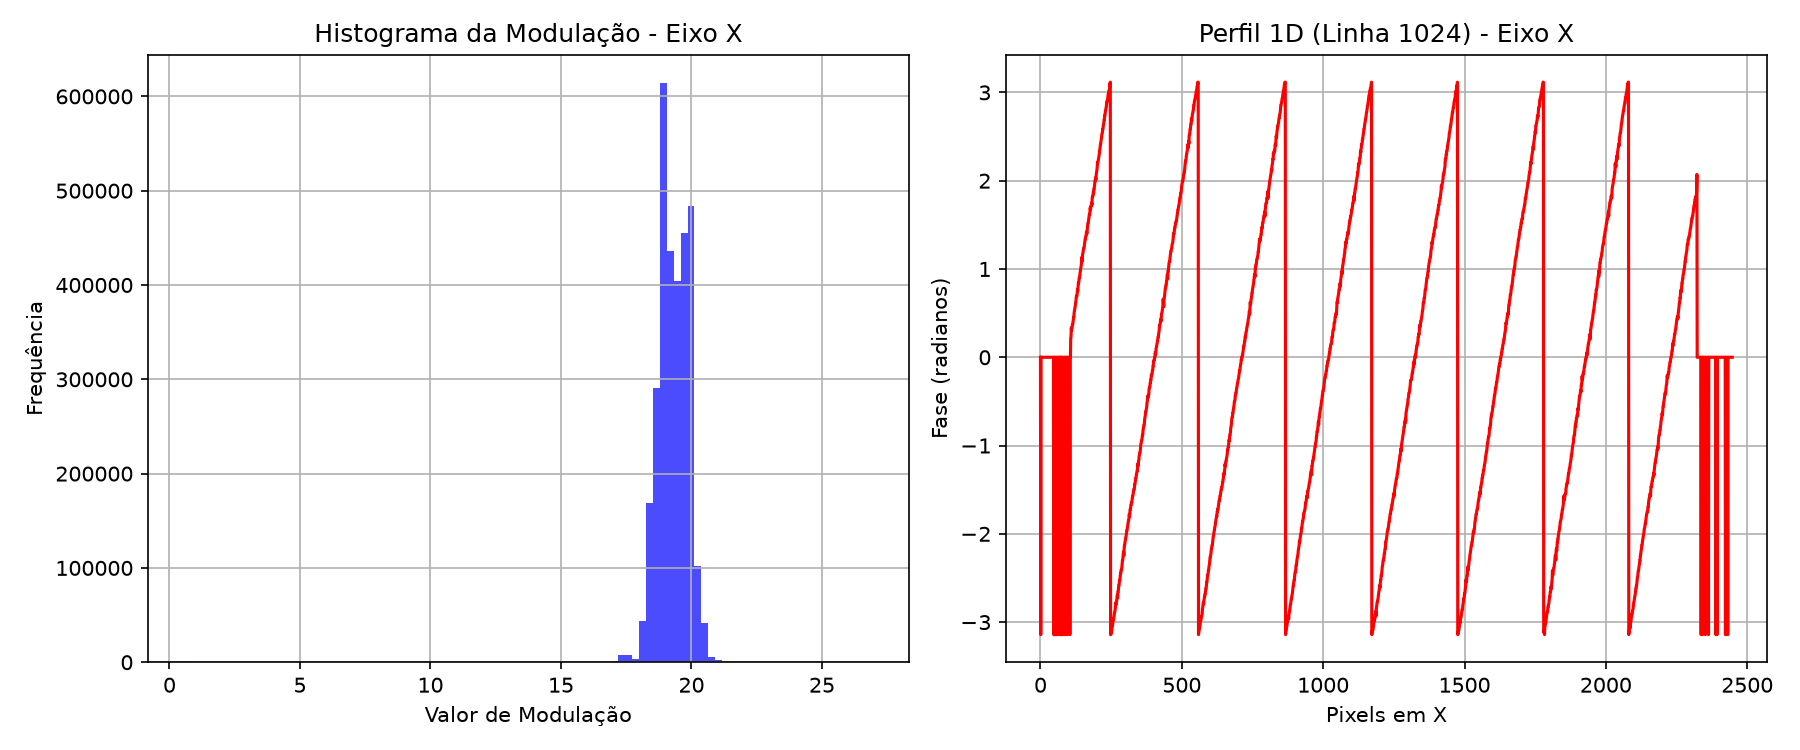
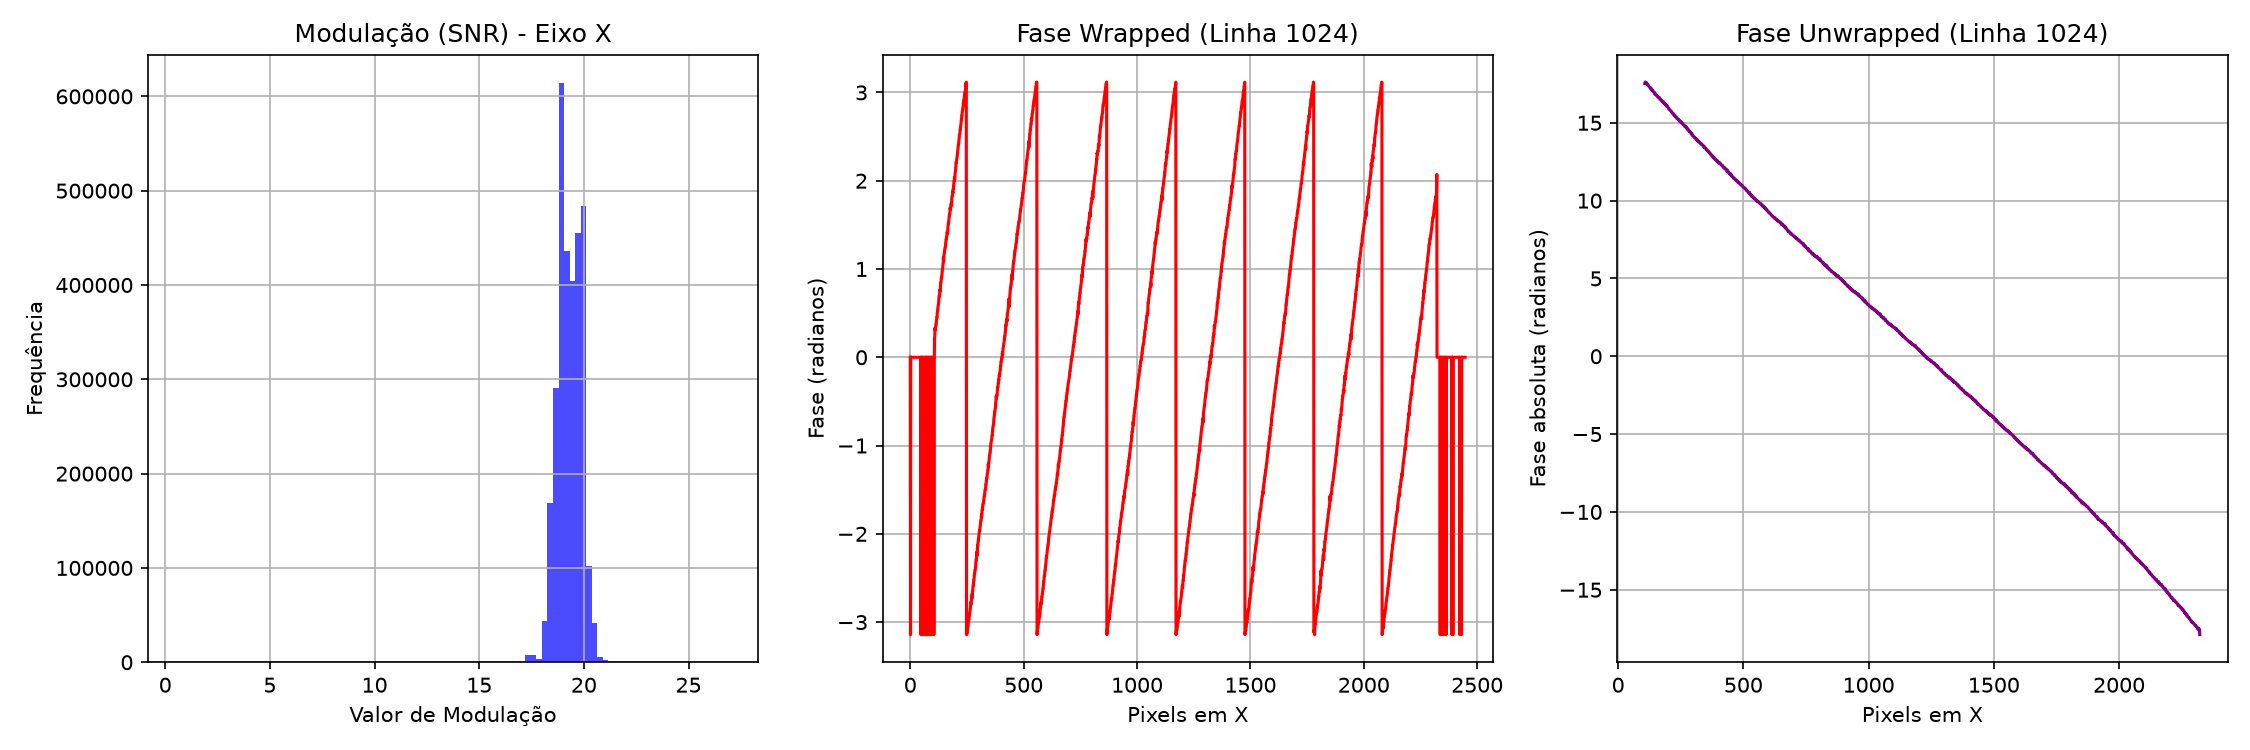
feat: implement 2D spatial phase unwrapping using DCT and update quality evaluation plots

diff --git a/main_phase_extraction.py b/main_phase_extraction.py
@@ -18,7 +18,7 @@ def load_images_from_directory(directory, prefix="cam0"):
     imgs = [cv2.imread(f, cv2.IMREAD_GRAYSCALE) for f in files]
     return imgs
 
-def evaluate_quality(wrapped_phase, modulation, axis_name):
+def evaluate_quality(wrapped_phase, modulation, axis_name, unwrapped_phase=None):
     """
     Gera e salva mapas e gráficos de avaliação de qualidade do resultado.
     """
@@ -26,36 +26,58 @@ def evaluate_quality(wrapped_phase, modulation, axis_name):
     mod_norm = cv2.normalize(modulation, None, 0, 255, cv2.NORM_MINMAX, dtype=cv2.CV_8U)
     cv2.imwrite(f"out/modulation_map_{axis_name}.png", mod_norm)
     
-    plt.figure(figsize=(12, 5))
+    # Se houver fase desembrulhada, gerar uma visualização em PNG também
+    if unwrapped_phase is not None:
+        p_min, p_max = np.nanmin(unwrapped_phase), np.nanmax(unwrapped_phase)
+        if p_max > p_min:
+            unwrapped_norm = ((unwrapped_phase - p_min) / (p_max - p_min) * 255)
+            # Para onde for nan (fundo/ruído mascarado), coloca 0 (preto)
+            unwrapped_norm = np.where(np.isnan(unwrapped_phase), 0, unwrapped_norm).astype(np.uint8)
+            cv2.imwrite(f"out/unwrapped_phase_{axis_name}.png", unwrapped_norm)
+            
+    plt.figure(figsize=(15, 5))
     
     # 1. Histograma da Modulação
-    plt.subplot(1, 2, 1)
-    # Filtra valores para ignorar pixels de fundo absoluto (0 exato)
+    plt.subplot(1, 3, 1)
     mod_values = modulation.ravel()
     plt.hist(mod_values[mod_values > 1e-3], bins=100, color='blue', alpha=0.7)
-    plt.title(f"Histograma da Modulação - Eixo {axis_name}")
+    plt.title(f"Modulação (SNR) - Eixo {axis_name}")
     plt.xlabel("Valor de Modulação")
     plt.ylabel("Frequência")
     plt.grid(True)
     
-    # 2. Perfil 1D da Fase (Dente-de-serra)
-    plt.subplot(1, 2, 2)
+    # 2. Perfil 1D da Fase Embrulhada
+    plt.subplot(1, 3, 2)
     H, W = wrapped_phase.shape
-    
     if axis_name == 'X':
-        # Para eixo X, fase varia horizontalmente. Pegamos uma linha central.
-        profile = wrapped_phase[H // 2, :]
-        plt.plot(profile, color='red', linewidth=1.5)
-        plt.title(f"Perfil 1D (Linha {H//2}) - Eixo {axis_name}")
+        profile_w = wrapped_phase[H // 2, :]
+        plt.plot(profile_w, color='red', linewidth=1.5)
+        plt.title(f"Fase Wrapped (Linha {H//2})")
         plt.xlabel("Pixels em X")
     else:
-        # Para eixo Y, fase varia verticalmente. Pegamos uma coluna central.
-        profile = wrapped_phase[:, W // 2]
-        plt.plot(profile, color='green', linewidth=1.5)
-        plt.title(f"Perfil 1D (Coluna {W//2}) - Eixo {axis_name}")
+        profile_w = wrapped_phase[:, W // 2]
+        plt.plot(profile_w, color='green', linewidth=1.5)
+        plt.title(f"Fase Wrapped (Coluna {W//2})")
         plt.xlabel("Pixels em Y")
-        
     plt.ylabel("Fase (radianos)")
+    plt.grid(True)
+    
+    # 3. Perfil 1D da Fase Desembrulhada
+    plt.subplot(1, 3, 3)
+    if unwrapped_phase is not None:
+        if axis_name == 'X':
+            profile_u = unwrapped_phase[H // 2, :]
+            plt.plot(profile_u, color='purple', linewidth=1.5)
+            plt.title(f"Fase Unwrapped (Linha {H//2})")
+            plt.xlabel("Pixels em X")
+        else:
+            profile_u = unwrapped_phase[:, W // 2]
+            plt.plot(profile_u, color='orange', linewidth=1.5)
+            plt.title(f"Fase Unwrapped (Coluna {W//2})")
+            plt.xlabel("Pixels em Y")
+        plt.ylabel("Fase absoluta (radianos)")
+    else:
+        plt.text(0.5, 0.5, 'Desembrulho não realizado', ha='center', va='center')
     plt.grid(True)
     
     # Ajustar espaçamento e salvar imagem
@@ -66,13 +88,11 @@ def evaluate_quality(wrapped_phase, modulation, axis_name):
 def main():
     print("Iniciando extração de Fase para Deflectometria (Single Frequency)...")
     
-    # Diretórios informados (franjas verticais = eixo X, franjas horizontais = eixo Y)
     dir_x = os.path.expanduser("~/Desktop/sim_deflectometria/vertical")
     dir_y = os.path.expanduser("~/Desktop/sim_deflectometria/horizontal")
     
     os.makedirs("out", exist_ok=True)
     
-    # Inicializar o processador PMD
     dummy_cam_matrix = np.eye(3)
     dummy_dist = np.zeros(5)
     pmd = PMDProcessing(camera_matrix=dummy_cam_matrix, dist_coeffs=dummy_dist)
@@ -83,13 +103,17 @@ def main():
     
     if len(imgs_x) > 0:
         wrapped_x, mod_x, _ = pmd.decode_nstep_phase(imgs_x)
-        
         np.save("out/wrapped_phase_x.npy", wrapped_x)
         cv2.imwrite("out/wrapped_phase_x.png", cv2.normalize(wrapped_x, None, 0, 255, cv2.NORM_MINMAX, dtype=cv2.CV_8U))
         print("-> Fase do Eixo X salva em 'out/wrapped_phase_x.npy'")
         
-        # Análise de Qualidade
-        evaluate_quality(wrapped_x, mod_x, 'X')
+        # Desembrulho Espacial (Spatial Unwrapping)
+        print("-> Realizando desembrulho espacial 2D (DCT)...")
+        unwrapped_x = pmd.spatial_unwrapping(wrapped_x, mod_x)
+        np.save("out/unwrapped_phase_x.npy", unwrapped_x)
+        print("-> Fase Absoluta Desembrulhada salva em 'out/unwrapped_phase_x.npy'")
+        
+        evaluate_quality(wrapped_x, mod_x, 'X', unwrapped_x)
         print("-> Análise de qualidade do Eixo X salva em 'out/quality_analysis_X.png'")
     else:
         print(f"-> Imagens do Eixo X não encontradas ou diretório incorreto.")
@@ -100,13 +124,17 @@ def main():
     
     if len(imgs_y) > 0:
         wrapped_y, mod_y, _ = pmd.decode_nstep_phase(imgs_y)
-        
         np.save("out/wrapped_phase_y.npy", wrapped_y)
         cv2.imwrite("out/wrapped_phase_y.png", cv2.normalize(wrapped_y, None, 0, 255, cv2.NORM_MINMAX, dtype=cv2.CV_8U))
         print("-> Fase do Eixo Y salva em 'out/wrapped_phase_y.npy'")
         
-        # Análise de Qualidade
-        evaluate_quality(wrapped_y, mod_y, 'Y')
+        # Desembrulho Espacial (Spatial Unwrapping)
+        print("-> Realizando desembrulho espacial 2D (DCT)...")
+        unwrapped_y = pmd.spatial_unwrapping(wrapped_y, mod_y)
+        np.save("out/unwrapped_phase_y.npy", unwrapped_y)
+        print("-> Fase Absoluta Desembrulhada salva em 'out/unwrapped_phase_y.npy'")
+        
+        evaluate_quality(wrapped_y, mod_y, 'Y', unwrapped_y)
         print("-> Análise de qualidade do Eixo Y salva em 'out/quality_analysis_Y.png'")
     else:
         print(f"-> Imagens do Eixo Y não encontradas ou diretório incorreto.")

diff --git a/src/msca/processing/processing_deflectometry.py b/src/msca/processing/processing_deflectometry.py
@@ -1,6 +1,7 @@
 import cv2
 import numpy as np
 from typing import Tuple, List
+from scipy.fft import dctn, idctn
 
 class PMDProcessing:
     """
@@ -158,4 +159,68 @@ class PMDProcessing:
                 normals[v, u] = n
                 
         return normals
+
+    def spatial_unwrapping(self, wrapped_phase: np.ndarray, modulation: np.ndarray, mod_threshold: float = None) -> np.ndarray:
+        """
+        Realiza o desembrulho espacial 2D da fase utilizando Mínimos Quadrados via Transformada Discreta de Cosseno (DCT).
+        Aplica uma máscara de confiabilidade baseada na modulação para remover o ruído de fundo.
+        
+        Args:
+            wrapped_phase: Mapa de fase embrulhada (2D, -pi a pi).
+            modulation: Mapa de modulação/SNR (2D).
+            mod_threshold: Limiar de modulação. Se None, é calculado usando percentil 95.
+            
+        Returns:
+            Fase contínua (unwrapped) onde os pixels de ruído recebem np.nan.
+        """
+        H, W = wrapped_phase.shape
+        
+        # 1. Gradientes da Fase Embrulhada
+        def wrap_diff(diff):
+            return diff - 2.0 * np.pi * np.round(diff / (2.0 * np.pi))
+            
+        dx = np.zeros((H, W), dtype=np.float32)
+        dy = np.zeros((H, W), dtype=np.float32)
+        
+        dx[:, :-1] = wrap_diff(wrapped_phase[:, 1:] - wrapped_phase[:, :-1])
+        dy[:-1, :] = wrap_diff(wrapped_phase[1:, :] - wrapped_phase[:-1, :])
+        
+        # 2. Laplaciano (Divergente dos Gradientes)
+        rho = np.zeros((H, W), dtype=np.float32)
+        rho[:, 1:] += dx[:, :-1]
+        rho[:, :-1] -= dx[:, :-1]
+        rho[1:, :] += dy[:-1, :]
+        rho[:-1, :] -= dy[:-1, :]
+        
+        # 3. Transformada Discreta de Cosseno 2D
+        dct_rho = dctn(rho, type=2, norm='ortho')
+        
+        # 4. Solução da Equação de Poisson no Domínio da Frequência
+        x_grid, y_grid = np.meshgrid(np.arange(W), np.arange(H))
+        
+        denom = 2.0 * np.cos(np.pi * x_grid / W) + 2.0 * np.cos(np.pi * y_grid / H) - 4.0
+        # Evitar divisão por zero na frequência zero (u=0, v=0)
+        denom[0, 0] = 1.0
+        
+        dct_phi = dct_rho / denom
+        dct_phi[0, 0] = 0.0  # Remove a componente contínua
+        
+        # 5. Transformada Inversa
+        unwrapped_phase = idctn(dct_phi, type=2, norm='ortho')
+        
+        # 6. Mascaramento baseado na Modulação
+        if mod_threshold is None:
+            # Calcula threshold dinâmico ignorando o fundo exato
+            valid_mod = modulation[modulation > 1e-3]
+            if len(valid_mod) > 0:
+                # Usa 10% do percentil 95 para não ser rigoroso demais
+                mod_threshold = np.percentile(valid_mod, 95) * 0.1
+            else:
+                mod_threshold = 1.0
+                
+        # Mascara onde a modulação for menor que o limiar (fundo/ruído)
+        mask = modulation > mod_threshold
+        unwrapped_phase = np.where(mask, unwrapped_phase, np.nan)
+        
+        return unwrapped_phase
 
